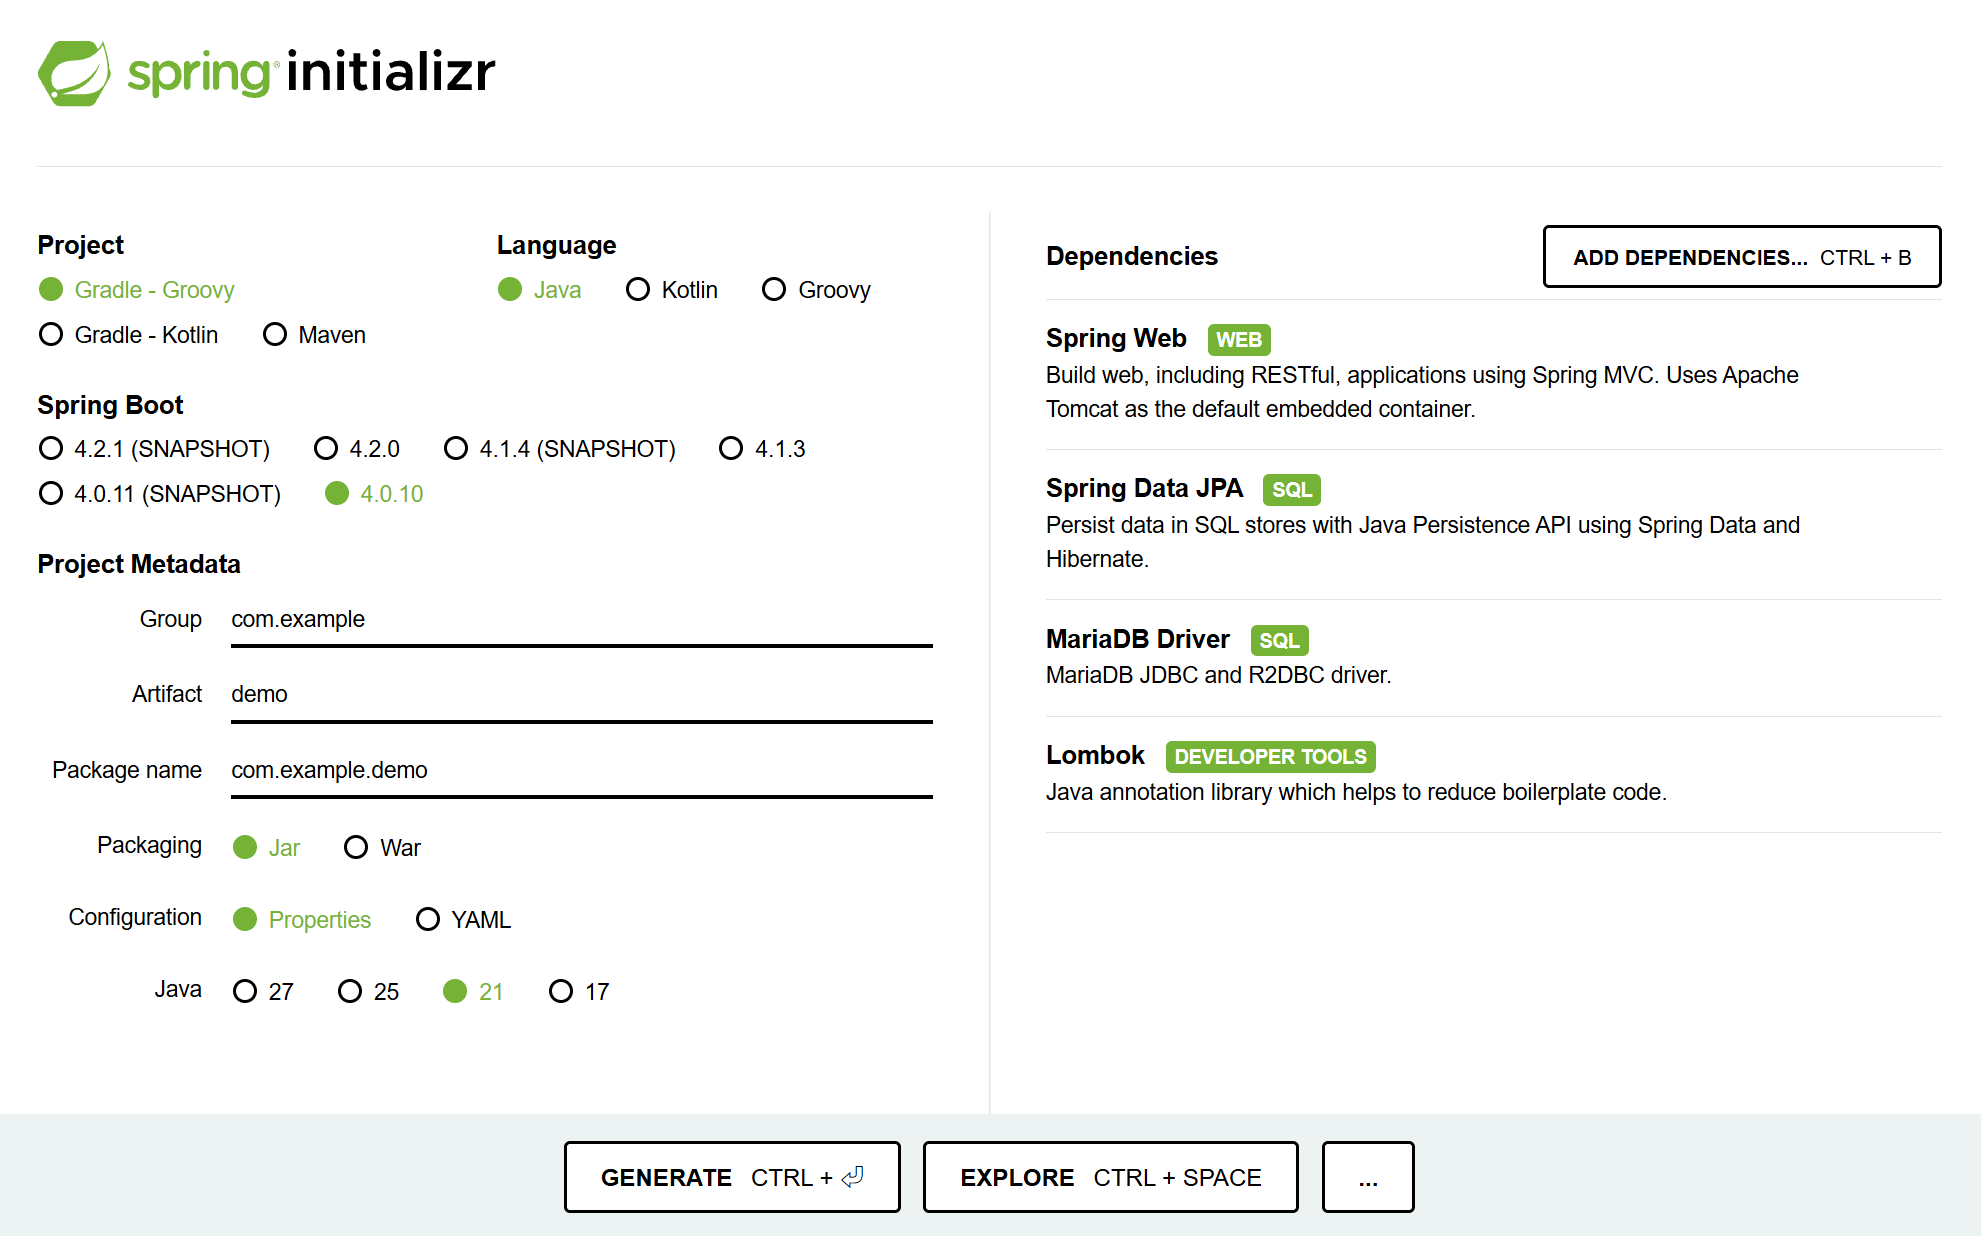
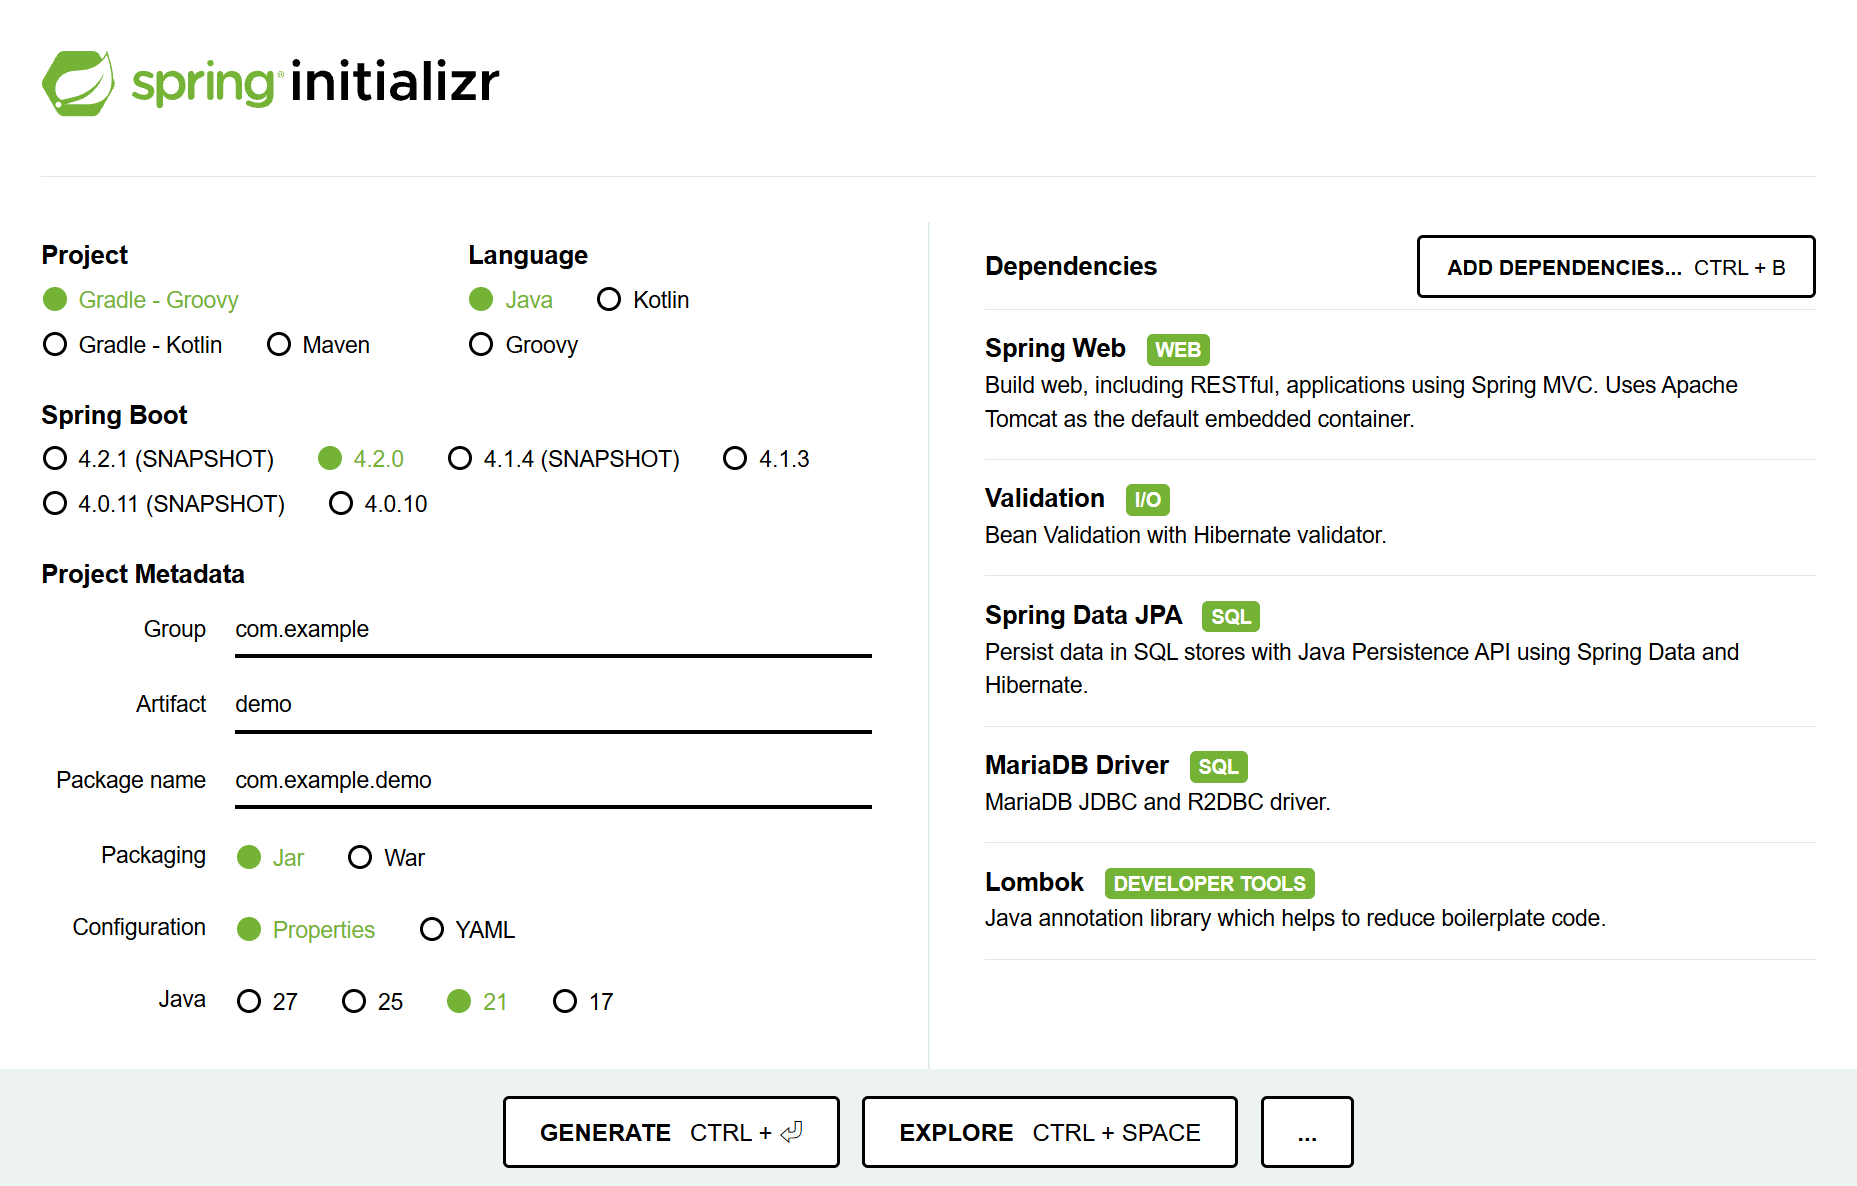
reviewed rest

diff --git a/spring-rest/src/main/java/com/example/demo/controller/MemberController.java b/spring-rest/src/main/java/com/example/demo/controller/MemberController.java
@@ -3,6 +3,7 @@ package com.example.demo.controller;
 import com.example.demo.entity.Member;
 import com.example.demo.repository.MemberRepository;
 import com.example.demo.service.MemberService;
+import jakarta.validation.Valid;
 import lombok.RequiredArgsConstructor;
 import org.springframework.http.HttpStatus;
 import org.springframework.web.bind.annotation.*;
@@ -41,6 +42,14 @@ public class MemberController {
     @PostMapping
     @ResponseStatus(HttpStatus.CREATED)
     public Member create(@RequestBody Member member) {
+        // 신규 등록의 ID는 DB가 생성한다. 요청에 ID가 있어도 사용하지 않는다.
+        member.setId(null);
+        return memberRepository.save(member);
+    }
+
+    @PostMapping("/valid")
+    @ResponseStatus(HttpStatus.CREATED)
+    public Member createValid(@Valid @RequestBody Member member) {
         // 신규 등록의 ID는 DB가 생성한다. 요청에 ID가 있어도 사용하지 않는다.
         member.setId(null);
         return memberRepository.save(member);

diff --git a/spring-rest/src/main/java/com/example/demo/entity/Member.java b/spring-rest/src/main/java/com/example/demo/entity/Member.java
@@ -1,6 +1,9 @@
 package com.example.demo.entity;
 
 import jakarta.persistence.*;
+import jakarta.validation.constraints.Email;
+import jakarta.validation.constraints.NotBlank;
+import jakarta.validation.constraints.NotNull;
 import lombok.*;
 
 // 클래스명과 테이블명이 다르면 @Table(name), 필드명과 컬럼명이 다르면 @Column(name)으로 매핑한다.
@@ -16,8 +19,11 @@ public class Member {
     @Column(name = "id")
     private Long id;
     @Column(name = "name")
+    @NotBlank(message = "이름을 입력하세요")
     private String name;
     // 이메일의 NOT NULL, UNIQUE 제약은 sql/schema.sql에서 정의한다.
+    @NotBlank(message = "이메일을 입력하세요")
+    @Email(message = "이메일 형식이 아닙니다")
     @Column(name = "email")
     private String email;
     @Column(name = "age")

diff --git a/practice-book/04-spring-mvc.md b/practice-book/04-spring-mvc.md
@@ -967,7 +967,7 @@ public String delete(@PathVariable("id") Long id, RedirectAttributes redirectAtt
 > **본 교재 참고**  
 > 5.4.4 「사용자 로그인 구현」의 회원가입 폼, 5.4.5 「게시판 웹 화면 구현」의 입력 검증
 
-기본 등록이 값을 받아 저장하는 흐름이었다면 검증 버전은 잘못된 입력을 입력 화면에서 고칠 수 있도록 안내합니다. DB의 NOT NULL은 null을 막지만 빈 문자열이나 이메일 형식까지 모두 검사하지는 않습니다. 사용자 입력 조건은 별도로 정의할 필요가 있습니다.
+3장에서는 요청 객체에 검증 규칙을 선언하고 @Valid로 검사했습니다. 이번에는 같은 검증 방식을 회원 등록 폼에 적용하고, 잘못 입력한 값을 화면에서 수정할 수 있도록 오류 메시지를 표시합니다.
 
 두 버전은 같은 MemberController 안에서 기본 add() 다음에 배치되어 있습니다. 기본 화면은 /members/new, 검증 화면은 /members/new-validation입니다. 검증 버전은 이름·이메일·나이를 입력받습니다.
 
@@ -1009,24 +1009,7 @@ public class MemberForm {
 
 **코드 설명**
 
-NotBlank는 null·빈 문자열·공백만 있는 문자열을 막습니다. Email은 이메일 형식을, Size는 문자열 길이를 확인합니다. 나이의 NotNull과 Min(0)은 필수 입력과 0 이상 조건입니다. message는 검증에 실패했을 때 보여 줄 문구이며, Controller의 입력 객체에 @Valid를 붙여 규칙을 검사합니다.
-
-**참고: 자주 쓰는 Validation 애노테이션**
-
-| 애노테이션 | 검증 규칙 |
-|---|---|
-| @NotNull | null을 허용하지 않습니다. 문자열의 내용은 검사하지 않습니다. |
-| @NotEmpty | null과 빈 문자열·빈 컬렉션·빈 배열을 허용하지 않습니다. 공백 문자열은 허용합니다. |
-| @NotBlank | 문자열이 null이거나 비어 있거나 공백만 있으면 오류입니다. |
-| @Size(min = 2, max = 20) | 문자열 길이나 컬렉션·배열의 크기를 제한합니다. |
-| @Email | 이메일 형식을 검사합니다. 실제 존재하는 주소인지는 확인하지 않습니다. |
-| @Min(0), @Max(150) | 숫자의 최솟값·최댓값을 제한하며 경계값도 허용합니다. |
-| @Positive | 0보다 큰 숫자만 허용합니다. |
-| @PositiveOrZero | 0 이상의 숫자를 허용합니다. |
-| @Pattern(regexp = "[0-9]+") | 정규식과 일치하는 문자열인지 검사합니다. 예시는 숫자로만 된 문자열입니다. |
-| @Past, @Future | 날짜·시간이 현재보다 과거인지·미래인지 검사합니다. |
-
-@Size, @Email, 숫자·날짜·정규식 검증은 null을 허용합니다. 필수값이라면 @NotNull이나 문자열용 @NotBlank를 함께 사용합니다. 위 목록을 모두 외우기보다 현재 폼의 이름·이메일·나이 규칙부터 확인합니다.
+MemberForm에는 3장에서 사용한 @NotBlank와 @Email에 더해 @Size로 이름과 이메일의 길이를 제한합니다. 나이의 @NotNull은 필수 입력을, @Min(0)은 0 이상 조건을 지정하며, message는 검증에 실패했을 때 표시할 문구입니다. 검증 애너테이션의 종류와 null 처리 규칙은 3.2.8절의 참고 표에서 확인합니다.
 
 **실행과 예상 결과**
 
@@ -1036,7 +1019,14 @@ NotBlank는 null·빈 문자열·공백만 있는 문자열을 막습니다. Ema
 
 ### 4.4.2 검증 결과와 입력값 유지
 
-@Valid는 폼의 검증 규칙을 실행하게 하고 BindingResult는 오류 정보를 받습니다. DB 조회가 필요한 이메일 중복은 직접 검사해 같은 오류 목록에 넣습니다.
+@Valid는 폼 객체에 선언된 검증 규칙을 적용하도록 하며, 검증 대상 매개변수 바로 뒤의 BindingResult는 오류 정보를 받습니다. 3장의 REST API에서는 검증에 실패하면 기본 400 오류 응답을 받았지만, 이 예제에서는 컨트롤러가 오류를 확인하고 입력값과 메시지를 담은 등록 화면을 다시 보여 줍니다. DB 조회가 필요한 이메일 중복은 직접 검사해 같은 오류 목록에 넣습니다.
+
+| 구분 | 3장의 REST API 예제 | 현재 MVC 폼 예제 |
+|---|---|---|
+| 입력을 받는 방법 | @RequestBody로 JSON을 객체로 변환합니다. | @ModelAttribute로 폼 값을 객체에 연결합니다. |
+| 검증 적용 | @Valid를 사용합니다. | @Valid를 사용합니다. |
+| 검증 실패 처리 | 기본 400 오류 응답을 반환합니다. | BindingResult를 확인하고 등록 화면을 다시 반환합니다. |
+| 오류 확인 위치 | 응답 JSON의 errors 항목입니다. | 등록 화면의 각 입력칸 옆입니다. |
 
 **실습 코드**
 

diff --git a/practice-book/README.md b/practice-book/README.md
@@ -2,7 +2,7 @@
 
 이 교재는 자바를 배운 초급 개발자가 스프링 부트로 데이터를 다루고 웹 애플리케이션을 만드는 과정을 안내합니다. 클래스·인터페이스·메서드·기본 컬렉션 문법과 SQL·HTML의 기초를 알고 있다면 예제 프로젝트를 실행하며 학습할 수 있습니다.
 
-스프링의 객체 관리에서 출발해 데이터베이스 연동, REST API, 웹 화면, 로그인과 권한 제어로 학습 범위를 넓혀 갑니다. 각 절에서는 필요한 개념을 먼저 익히고, 실제 코드와 실행 결과를 연결해 동작을 확인합니다.
+스프링의 객체 관리에서 출발해 데이터베이스 연동, REST API와 요청 객체 검증, 웹 화면, 로그인과 권한 제어로 학습 범위를 넓혀 갑니다. REST API에서 검증 애너테이션과 기본 오류 응답을 익히고, MVC에서는 같은 검증 방식을 폼의 입력값 유지와 오류 메시지 표시로 확장합니다. 각 절에서는 필요한 개념을 먼저 익히고, 실제 코드와 실행 결과를 연결해 동작을 확인합니다.
 
 ## 목차
 
@@ -33,7 +33,7 @@
 | 2.3.7 영속성 컨텍스트와 동일성 | 3.4.3 「영속성 컨텍스트」 |
 | 2.3.9~2.3.12 게시글과 작성자 관계·저장·조회 | 3.4.4 「관계 매핑」 |
 | [3장 RESTful API](03-restful-api.md) — HTTP·프로젝트 준비 | 4장 「RESTful API 작성하기」의 4.1 「RESTful API란 무엇인가?」, 4.2.1 「프로젝트 생성 및 JPA 리포지터리 작성」 |
-| 3.2 Member 기본 CRUD API | 4.2.2 「회원 관리 RESTful API 작성」 |
+| 3.2 Member 기본 CRUD API·요청 객체 검증 | 4.2.2 「회원 관리 RESTful API 작성」 |
 | 3.3 Service·DTO·게시글 CRUD·페이징 | 4.2.3 「서비스 계층 분리」, 4.2.4 「게시글 RESTful API 구현」 |
 | 3.4 트랜잭션과 회원 일괄 가입 | 4.2.5 「트랜잭션 처리」 |
 | 3.5 자동 검증·통합 테스트·단위 테스트 | 4.3.1 「테스트 클래스 작성」, 4.3.2 「통합 테스트」, 4.3.3 「단위 테스트」 |
@@ -52,7 +52,9 @@
 
 각 프로젝트를 새로 만들 때는 해당 장의 Spring Initializr 캡처를 보고 의존성을 선택합니다. 공통 설정은 Gradle - Groovy, Java, Group `com.example`, Artifact `demo`, Package name `com.example.demo`, Jar, Properties, Java 21입니다. Spring Boot 버전은 배포된 예제 프로젝트의 `build.gradle`을 기준으로 맞춥니다.
 
-Generate로 내려받은 ZIP 파일을 압축 해제하고, 폴더 이름을 각 실습의 프로젝트 이름으로 정한 뒤 IntelliJ IDEA에서 엽니다. Gradle 의존성 다운로드가 끝나면 코드를 작성할 준비가 됩니다. Spring Initializr 캡처는 각 프로젝트에 필요한 의존성을 확인하는 데 사용합니다.
+Generate로 내려받은 ZIP 파일을 압축 해제하고, 폴더 이름을 각 실습의 프로젝트 이름으로 정한 뒤 IntelliJ IDEA에서 엽니다. Gradle 의존성 다운로드가 끝나면 코드를 작성할 준비가 됩니다.
+
+Spring Initializr 캡처는 각 프로젝트에 필요한 의존성을 확인하는 데 사용합니다. 3장의 spring-rest 프로젝트는 생성 단계에서 Validation을 함께 선택합니다.
 
 **제공된 프로젝트로 학습하는 방법**
 
@@ -80,6 +82,7 @@ Generate로 내려받은 ZIP 파일을 압축 해제하고, 폴더 이름을 각
 | MyBatis·JPA | 공통 샘플이 있는 상태에서 테스트를 각각 실행합니다. | 테스트 안에서 등록·수정·삭제한 내용은 롤백됩니다. |
 | REST 회원 CRUD | 정혁이 없는 상태에서 등록부터 삭제까지 이어서 실행합니다. | 새로 등록한 회원을 삭제하면 기존 회원 4명이 남습니다. |
 | REST XML 통신 | 회원 CRUD의 삭제 후 members-xml.http를 순서대로 실행합니다. | XML 등록·조회 후 실습 회원을 삭제해 기존 회원 4명을 유지합니다. |
+| REST 요청 객체 검증 | CRUD와 XML 실습의 삭제 후 members.http의 요청 13~17을 실행합니다. | 실패 요청은 저장하지 않으며, 정상 등록한 회원을 삭제해 기존 회원 4명을 유지합니다. |
 | REST 게시글 CRUD | 회원 실습을 마친 뒤 게시글 하나를 등록해 조회·수정·페이징·삭제합니다. | 새 게시글을 삭제하면 기존 게시글 100개가 남습니다. |
 | REST 일괄 가입 | 정혁이 없는 상태에서 중복 이메일 실패 요청을 실행합니다. | 트랜잭션이 적용되어 있으면 회원 4명이 유지됩니다. |
 | MVC | 별도의 H2 메모리 DB에서 시작합니다. | 변경은 앱 실행 중 유지되며, 앱을 재시작하면 초기 샘플로 돌아갑니다. |
